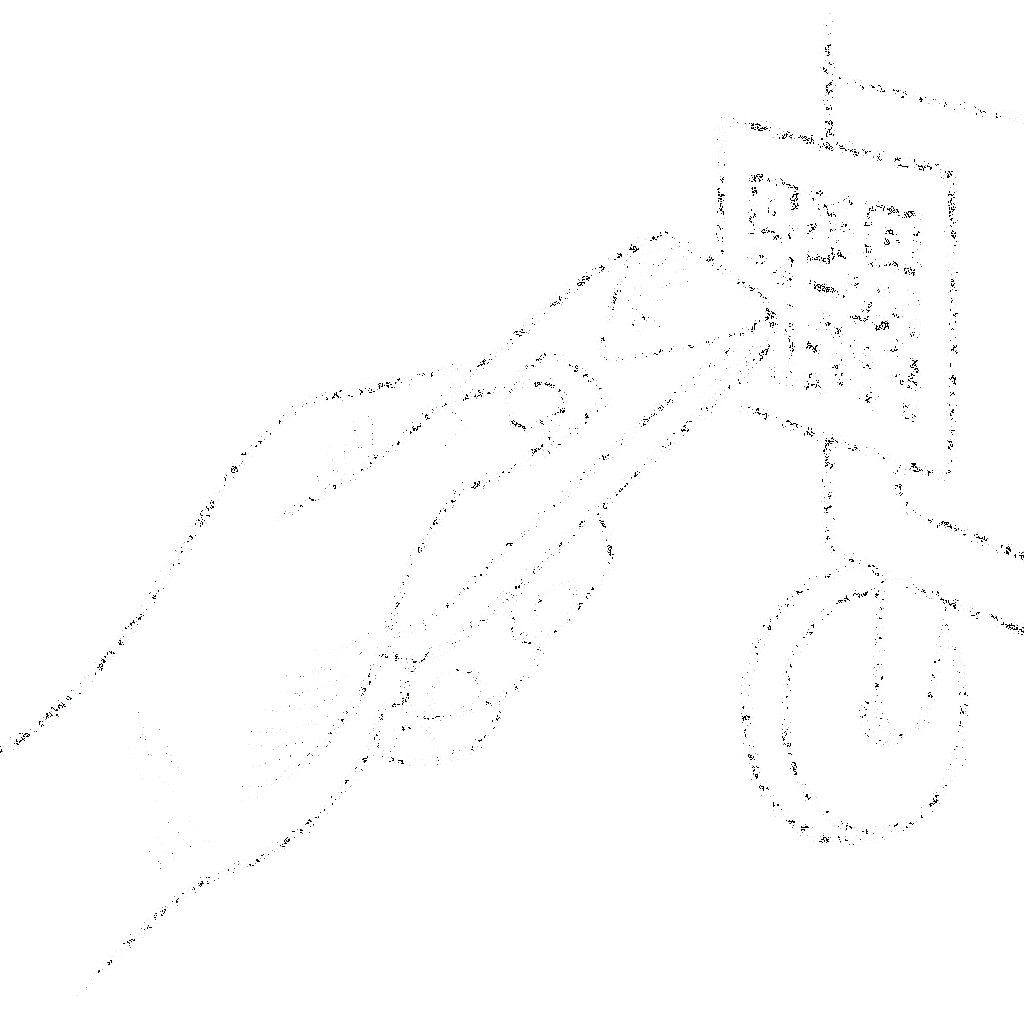
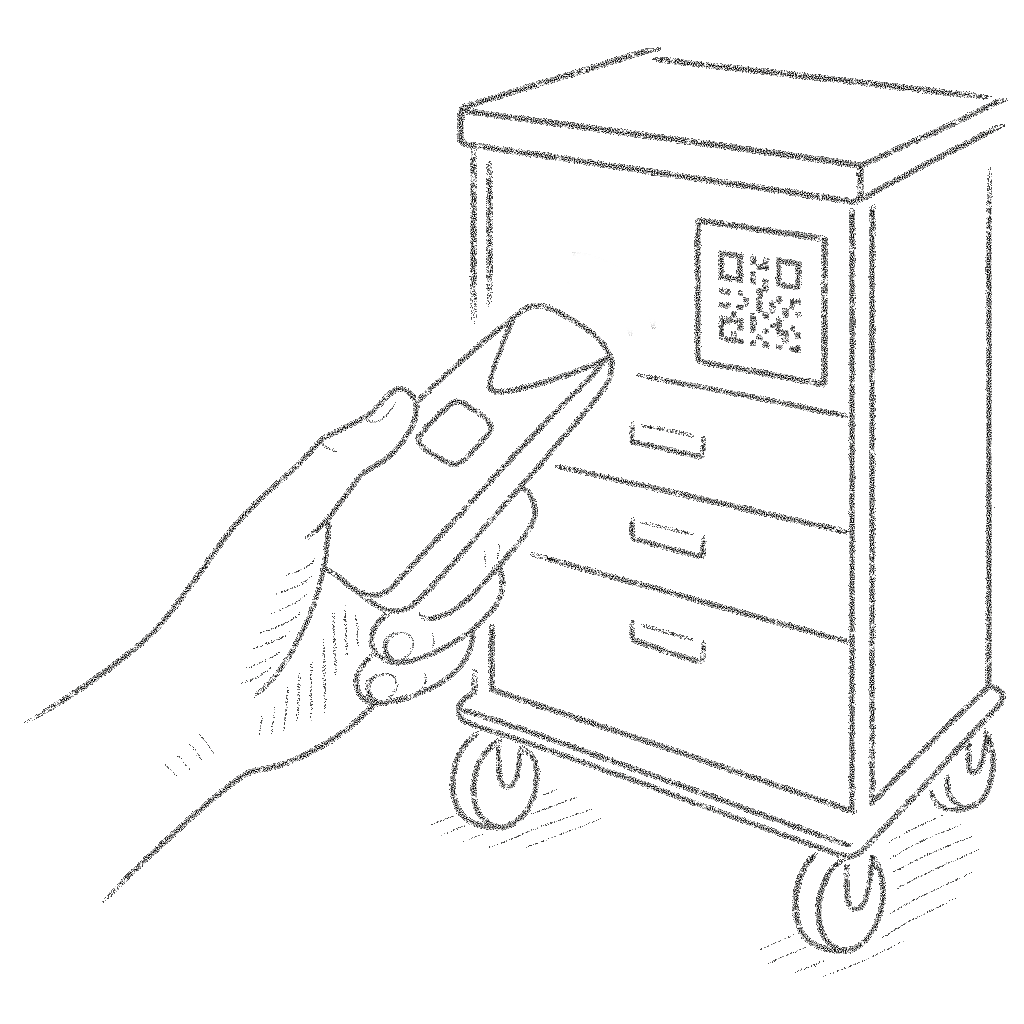
fdfdf

diff --git a/index.html b/index.html
@@ -36,6 +36,14 @@
     input[type=text], input[type=password], select { background:#0f1216; border:1px solid var(--line); color:var(--text); border-radius:10px; padding:10px 12px; width:100%; }
     table { width:100%; border-collapse: collapse; margin-top:10px; }
     th, td { border-bottom:1px solid var(--line); padding:10px; text-align:left; }
+
+    /* Review screen polish */
+    .review-intro { margin-top:6px; }
+    table.review-table thead th { font-weight:600; letter-spacing:.2px; color:var(--muted); background: #121419; }
+    table.review-table tbody tr:hover { background:#111317; }
+    table.review-table { border:1px solid var(--line); border-radius:12px; overflow:hidden; display:block; }
+    table.review-table thead, table.review-table tbody, table.review-table tr { display:table; width:100%; table-layout:fixed; }
+    table.review-table thead { position:sticky; top:0; z-index:1; }
     .topbar { position:fixed; left:0; right:0; top:0; padding:10px 16px; display:flex; justify-content:space-between; align-items:center; background:linear-gradient(to bottom, rgba(0,0,0,.5), transparent); }
     .pill { padding:6px 10px; background:#1e232b; border:1px solid var(--line); border-radius:999px; font-size:12px; }
     .toast { position:fixed; left:50%; transform:translateX(-50%); bottom:28px; background:#0f1216; border:1px solid var(--line); padding:10px 14px; border-radius:10px; color:#fff; }
@@ -311,7 +319,7 @@
           </div>
         </div>
         <div class="audit-bottom">
-          <img src="ScanTrolly.png" alt="Scan items during your round" class="scan-bottom">
+          <img id="imgScanTrolly" src="ScanTrolly2.png" alt="Scan items during your round" class="scan-bottom">
         </div>
       </div>
     </div>
@@ -319,17 +327,16 @@
 
   <div class="wrap hidden" id="screen-review">
     <div class="panel center" style="width:min(820px, 96vw)">
-<h2>Review & Submit</h2>
-<div class="hr"></div>
-<div id="reviewInfo" class="pill" style="margin:8px 0; display:inline-block;">Loading context…</div>
-<div class="hr"></div>
-<table id="reviewTable"><thead><tr><th>Name</th><th>Room</th><th>Check Type</th></tr></thead><tbody></tbody></table>
-<div class="pad">
-  <label for="comment" class="muted">Comments (optional)</label>
-  <textarea id="comment" placeholder="Any notes" rows="4" style="width:100%; background:#0f1216; border:1px solid var(--line); color:var(--text); border-radius:10px; padding:10px 12px;"></textarea>
-</div>
-<div class="pad"><button class="btn primary" id="btnSubmit">Submit</button></div>
-<p id="submitMsg" class="muted"></p>
+      <h2 class="glow">Review & Submit</h2>
+      <p class="muted review-intro">Confirm the items below, choose a check type if needed, then submit.</p>
+      <div class="hr"></div>
+      <table id="reviewTable" class="review-table"><thead><tr><th>Name</th><th>Room</th><th>Check Type</th></tr></thead><tbody></tbody></table>
+      <div class="hr"></div>
+      <div class="row" style="justify-content:flex-end">
+        <button class="btn" id="btnBackToUpload">Back</button>
+        <button class="btn primary" id="btnSubmit">Submit</button>
+      </div>
+      <p id="submitMsg" class="muted"></p>
     </div>
   </div>
 
@@ -378,6 +385,7 @@
     let currentScreen = 'screen-login';
     function setTopbarFor(id){
       if (id === 'screen-begin') startDoubleDeepCycle(); else stopDoubleDeepCycle();
+      if (id === 'screen-scanning') startScanTrollyCycle(); else stopScanTrollyCycle();
       currentScreen = id;
       const btn = $('btnLogout');
       if (!btn) return;
@@ -398,16 +406,6 @@
       setTopbarFor(id);
     }
     function toast(msg) { const t=$('toast'); t.textContent=msg; t.classList.remove('hidden'); setTimeout(()=>t.classList.add('hidden'), 1600); }
-    // Update the banner with who/where and basic counts
-    async function updateReviewInfo(scanned, matched){
-      try{
-        const { data } = await sb.auth.getUser();
-        const email = data?.user?.email || '(not signed in)';
-        const site = S.siteId == null ? '—' : String(S.siteId);
-        const el = document.getElementById('reviewInfo');
-        if (el){ el.textContent = `User: ${email}  •  Site: ${site}  •  Scanned: ${scanned}  •  Matched: ${matched}`; }
-      }catch(e){ const el = document.getElementById('reviewInfo'); if (el) el.textContent = 'Context unavailable'; }
-    }
     // Disable Submit when no check types are available
     function guardSubmitForTypes(){
       const b = document.getElementById('btnSubmit');
@@ -471,6 +469,7 @@
     let resetInterval = null;
     let doubleDeepTimer = null;
     let uploadFocusTimer = null;
+    let scanTrollyTimer = null;
     function startUploadFocusLoop(){
       if (uploadFocusTimer) clearInterval(uploadFocusTimer);
       // initial focus
@@ -524,6 +523,22 @@ function stopDoubleDeepCycle(){
   if (doubleDeepTimer) { clearInterval(doubleDeepTimer); doubleDeepTimer = null; }
   const img = $('imgDoubleDeep');
   if (img) img.src = 'DoubleDeep.png';
+}
+function startScanTrollyCycle(){
+  const img = $('imgScanTrolly');
+  if (!img) return;
+  stopScanTrollyCycle(); // ensure only one timer
+  let alt = false;
+  scanTrollyTimer = setInterval(()=>{
+    alt = !alt;
+    img.src = alt ? 'ScanTrolly2.png' : 'ScanTrolly.png';
+  }, 1000);
+}
+
+function stopScanTrollyCycle(){
+  if (scanTrollyTimer) { clearInterval(scanTrollyTimer); scanTrollyTimer = null; }
+  const img = $('imgScanTrolly');
+  if (img) img.src = 'ScanTrolly.png';
 }
     // Helper to reset upload screen UI state
     function resetUploadUI(){
@@ -669,6 +684,12 @@ function stopDoubleDeepCycle(){
     // Finish -> upload
     $('uploadInput').addEventListener('keydown', (e)=>{ if(e.key==='Enter'){ e.preventDefault(); const raw=e.target.value.trim(); e.target.value=''; const m=raw.match(/^\d{10}$/); if(!m){ scheduleUploadAutoContinue(); return; } const code=m[0]; if(!S.scans.includes(code)){ const wasEmpty = S.scans.length === 0; S.scans.push(code); if (wasEmpty) { showUploadCounter(); } updateUploadCounter(); } scheduleUploadAutoContinue(); }});
     $('btnResetDone').addEventListener('click', () => { if (resetInterval) { clearInterval(resetInterval); resetInterval = null; } show('screen-pin'); });
+
+    $('btnBackToUpload').addEventListener('click', ()=>{
+      show('screen-upload');
+      showUploadQR();
+      focusUploadInput();
+    });
 
     async function refreshReview() {
       // Normalise scanned codes (strings, trimmed, unique)
